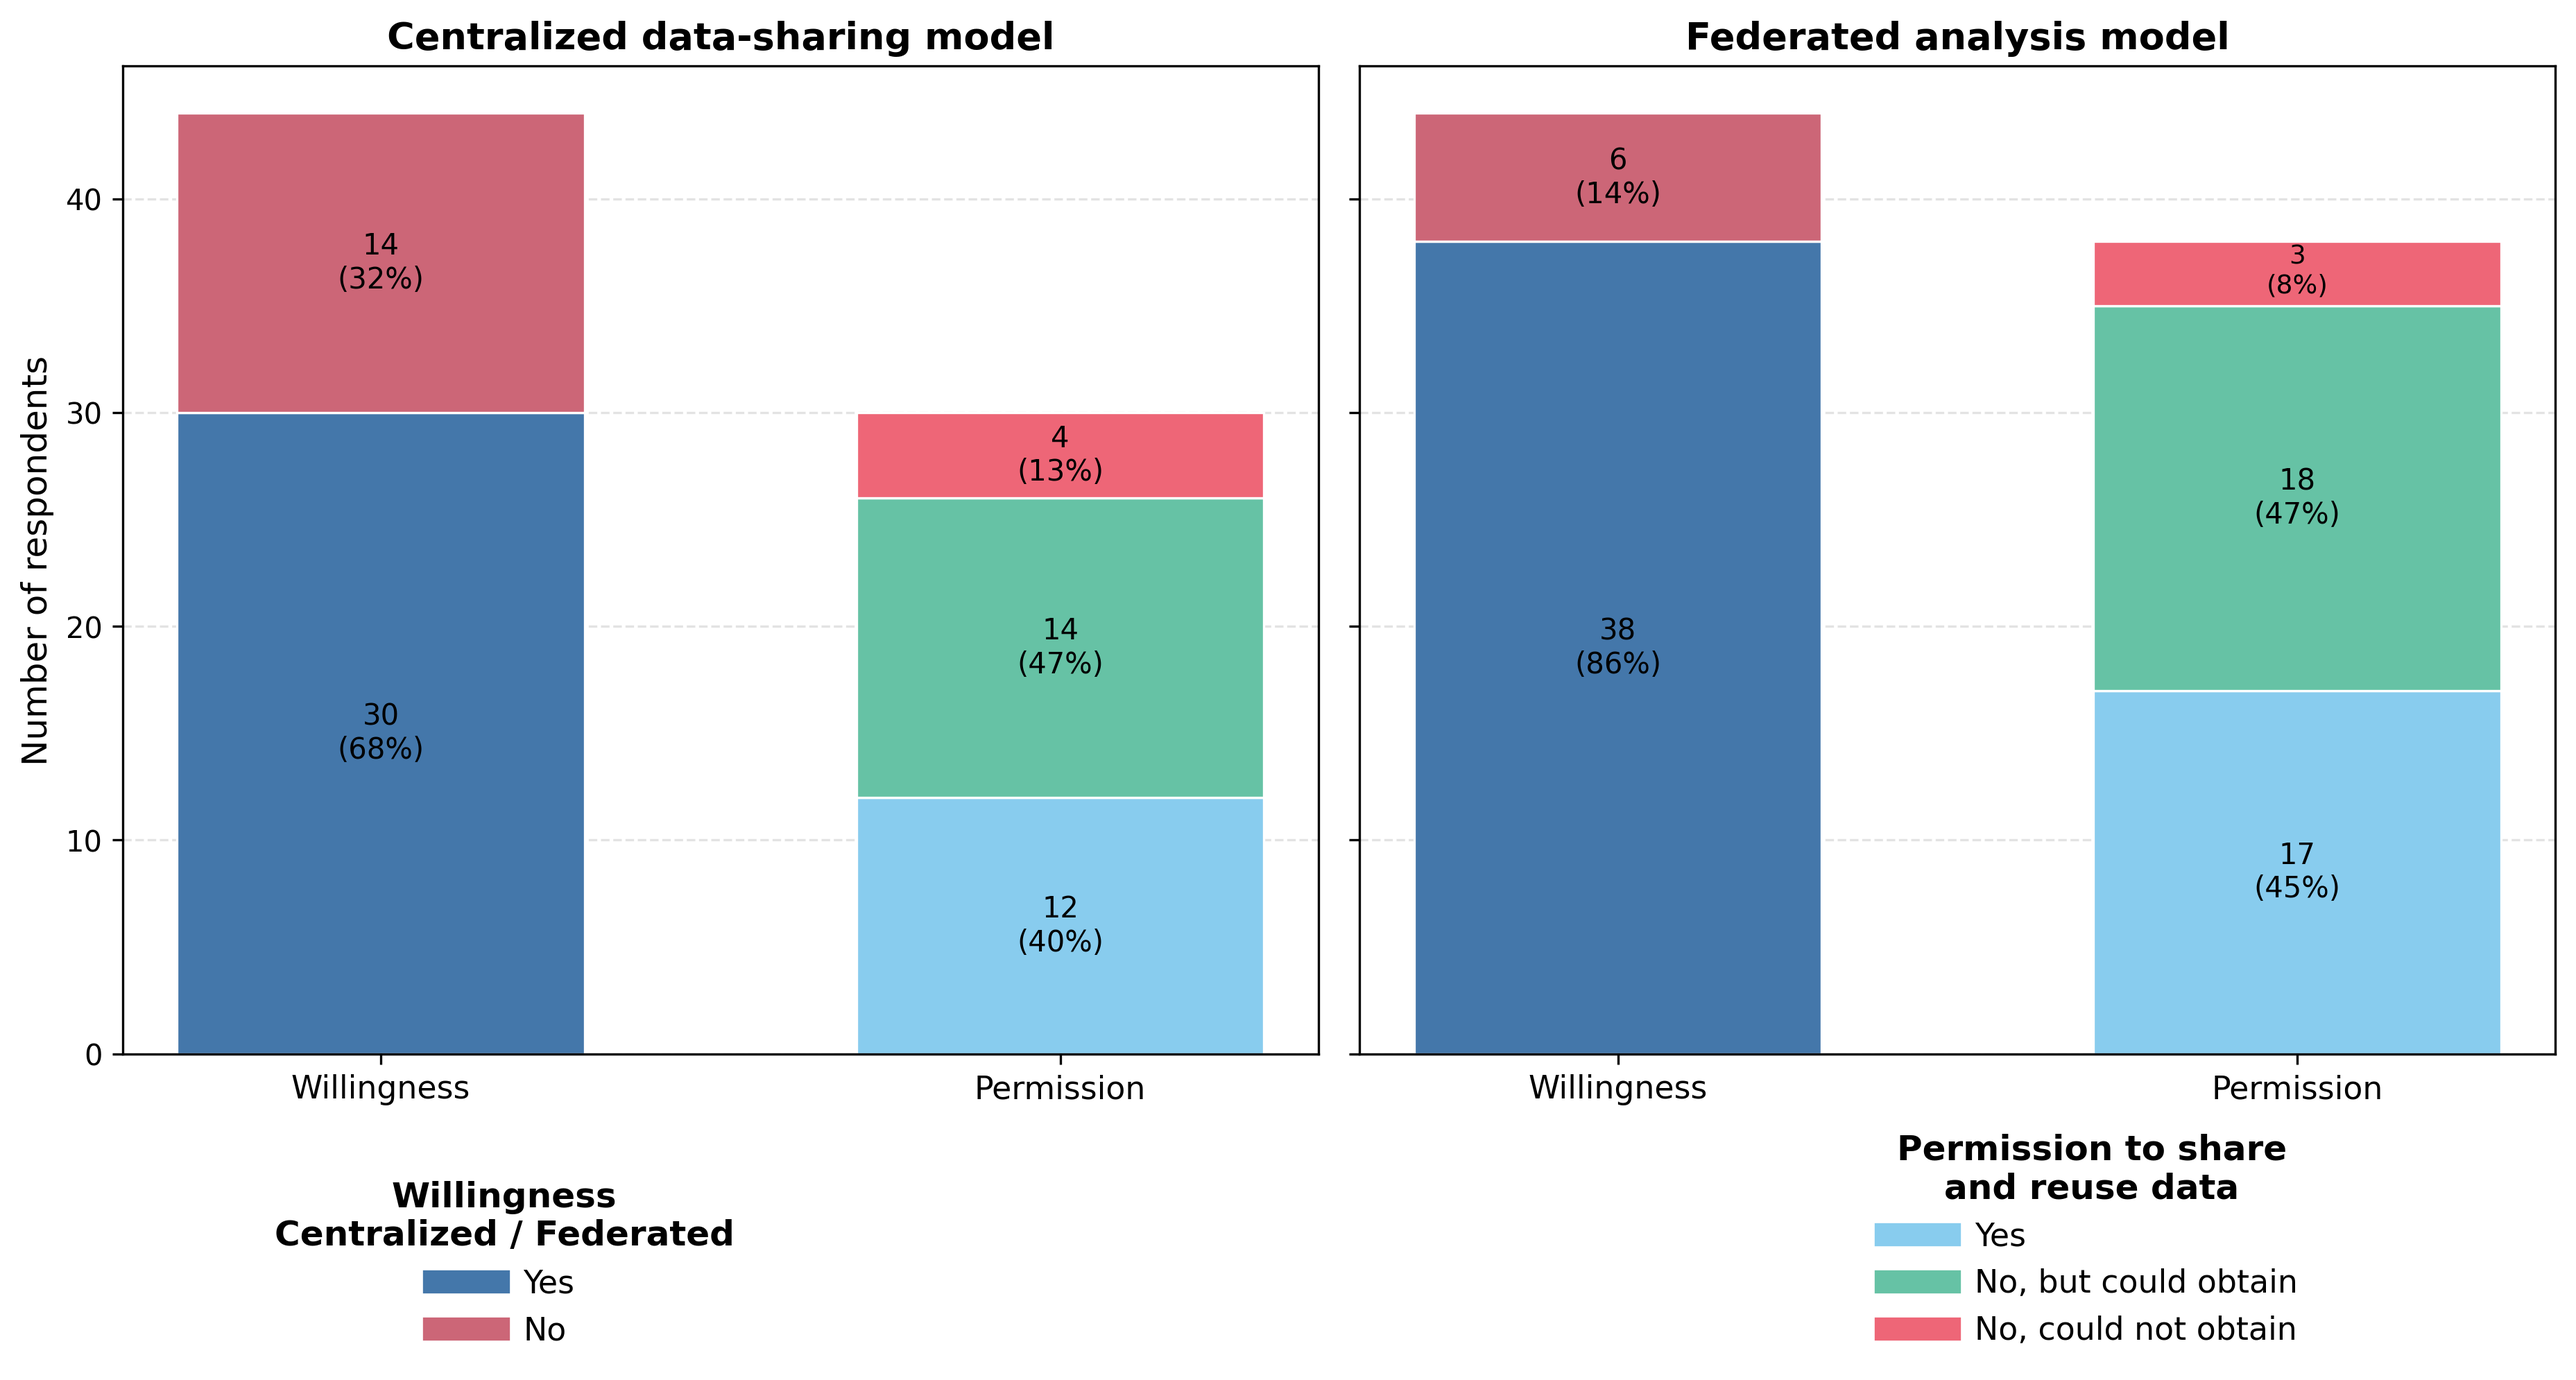
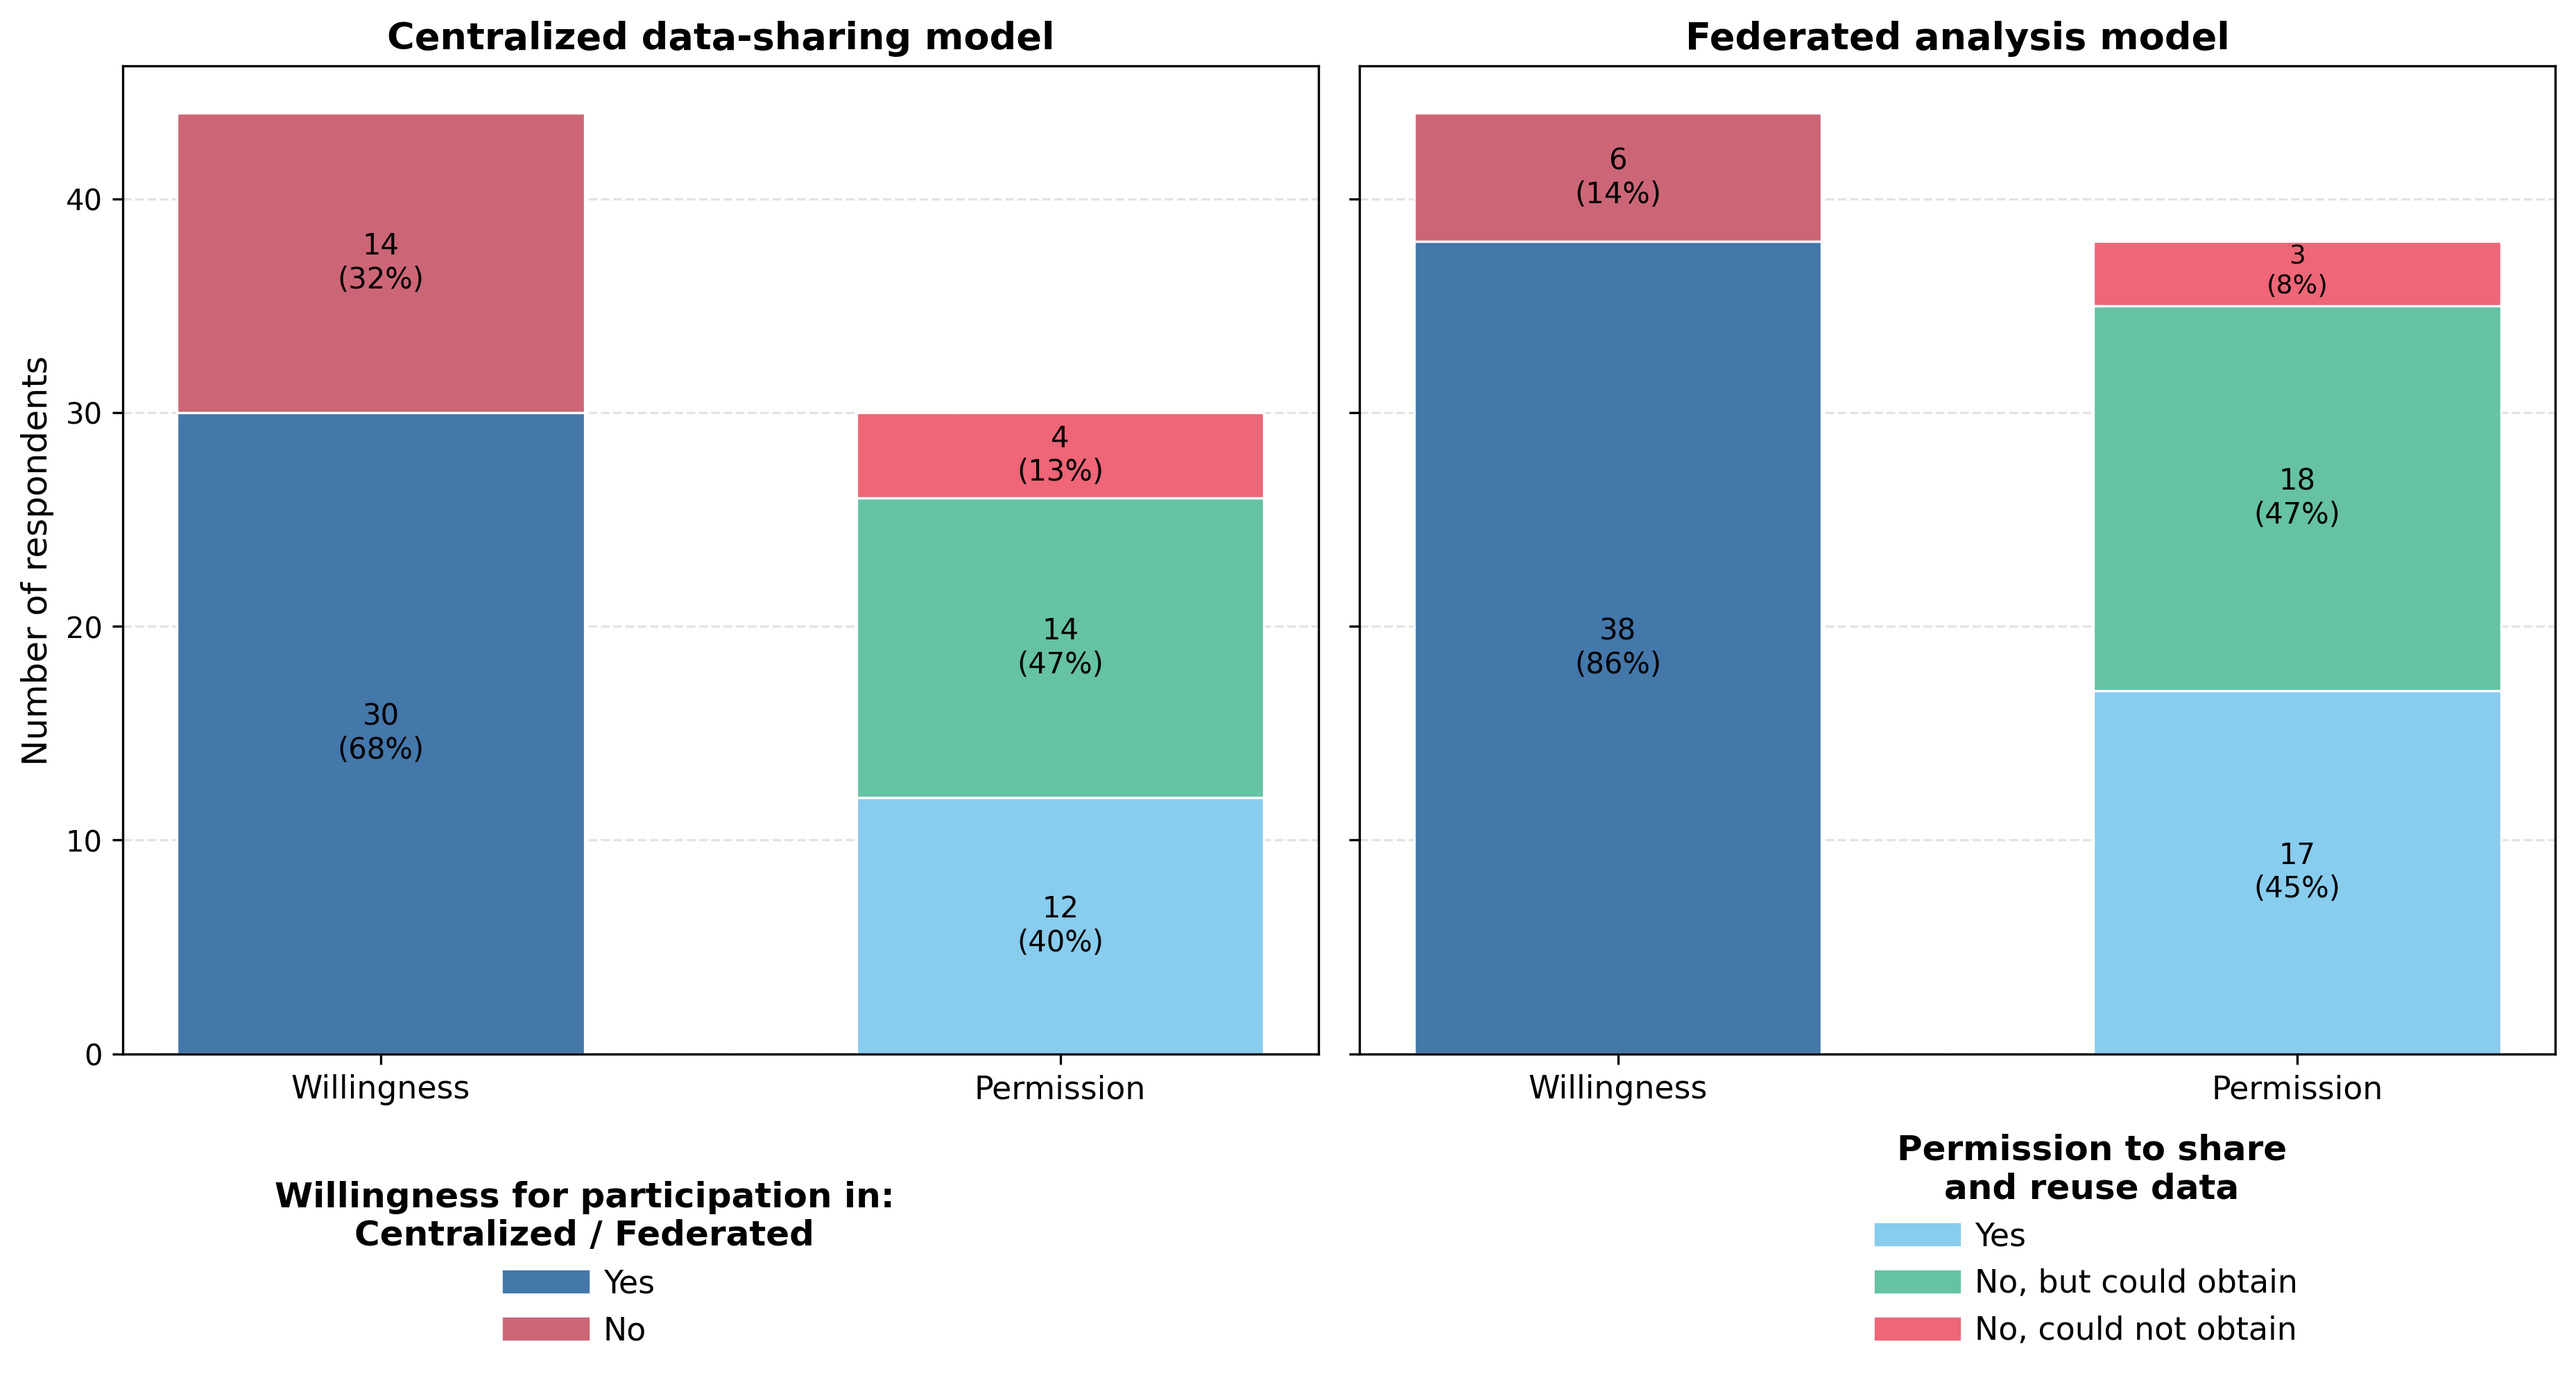
Clarified the "Willingness" legend.

Changed region(s): [[0.0937, 0.8412, 0.3436, 0.997]]

diff --git a/scripts/python/make_alt_figure5.py b/scripts/python/make_alt_figure5.py
@@ -264,7 +264,7 @@ legend_will = [
 
 leg1 = fig.legend(
     handles=legend_will,
-    title="Willingness\nCentralized / Federated",
+    title="Willingness for participation in:\nCentralized / Federated",
     loc="lower left",
     bbox_to_anchor=(0.10, -0.075),
     frameon=False,
